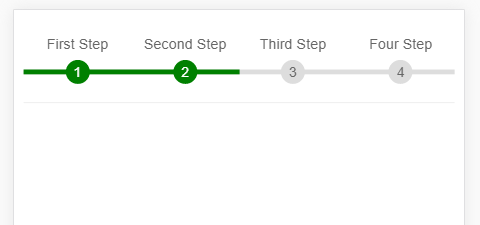
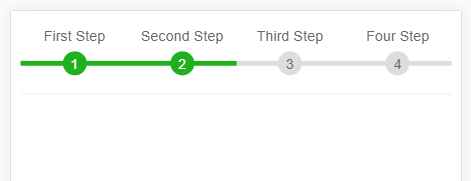
update color and README.md
change color
change README.md
...

diff --git a/src/components/Step.vue b/src/components/Step.vue
@@ -24,18 +24,10 @@ export default {
       required: true
     }
   },
-  data() {
-    return {
-      // stepList: ['aaaaaaaaaaa', 'bbb', 'ccc']
-    };
-  },
   computed: {
     stepItemWidth() {
       return 100 / this.stepList.length;
     }
-  },
-  mounted() {
-    console.log(this.nowStep, this.stepList);
   }
 };
 </script>
@@ -60,7 +52,7 @@ export default {
   left: 0;
   width: 200px;
   height: inherit;
-  background-color: green;
+  background-color: #1fb11d;
 }
 .v-step-list {
   position: relative;
@@ -90,6 +82,6 @@ export default {
 }
 .step-active {
   color: #fff;
-  background-color: green;
+  background-color: #1fb11d;
 }
 </style>

diff --git a/src/App.vue b/src/App.vue
@@ -1,6 +1,6 @@
 <template>
   <div id="app">
-    <Step :now-step="2" :stepList="stepList"></Step>
+    <Step :now-step="2" :step-list="stepList"></Step>
   </div>
 </template>
 

diff --git a/README.md b/README.md
@@ -2,7 +2,7 @@
 
 > 基于Vue.js的移动端步骤导航组件 Mobile Step Navigation Component Based On Vue.js
 
-## Build Setup
+## Build Setup 
 
 ``` bash
 # install dependencies
@@ -21,7 +21,7 @@ yarn run dev
 # example
 <template>
   <div id="app">
-    <Step :now-step="2" :stepList="stepList"></Step>
+    <Step :now-step="2" :step-list="stepList"></Step>
   </div>
 </template>
 
@@ -41,7 +41,15 @@ export default {
 };
 </script>
 ```
+## API
+
+| Param     | Description       | Type     | Default |
+| --------- | ----------------- | -------- | ------- |
+| now-step  | The current step  | `Number` | -       |
+| step-list | Name of all steps | `Array`  | -       |
+
 ## Demo Screenshot
+
 ![Demo Screenshot](./screenshot/demo.png)
 
 ## License
